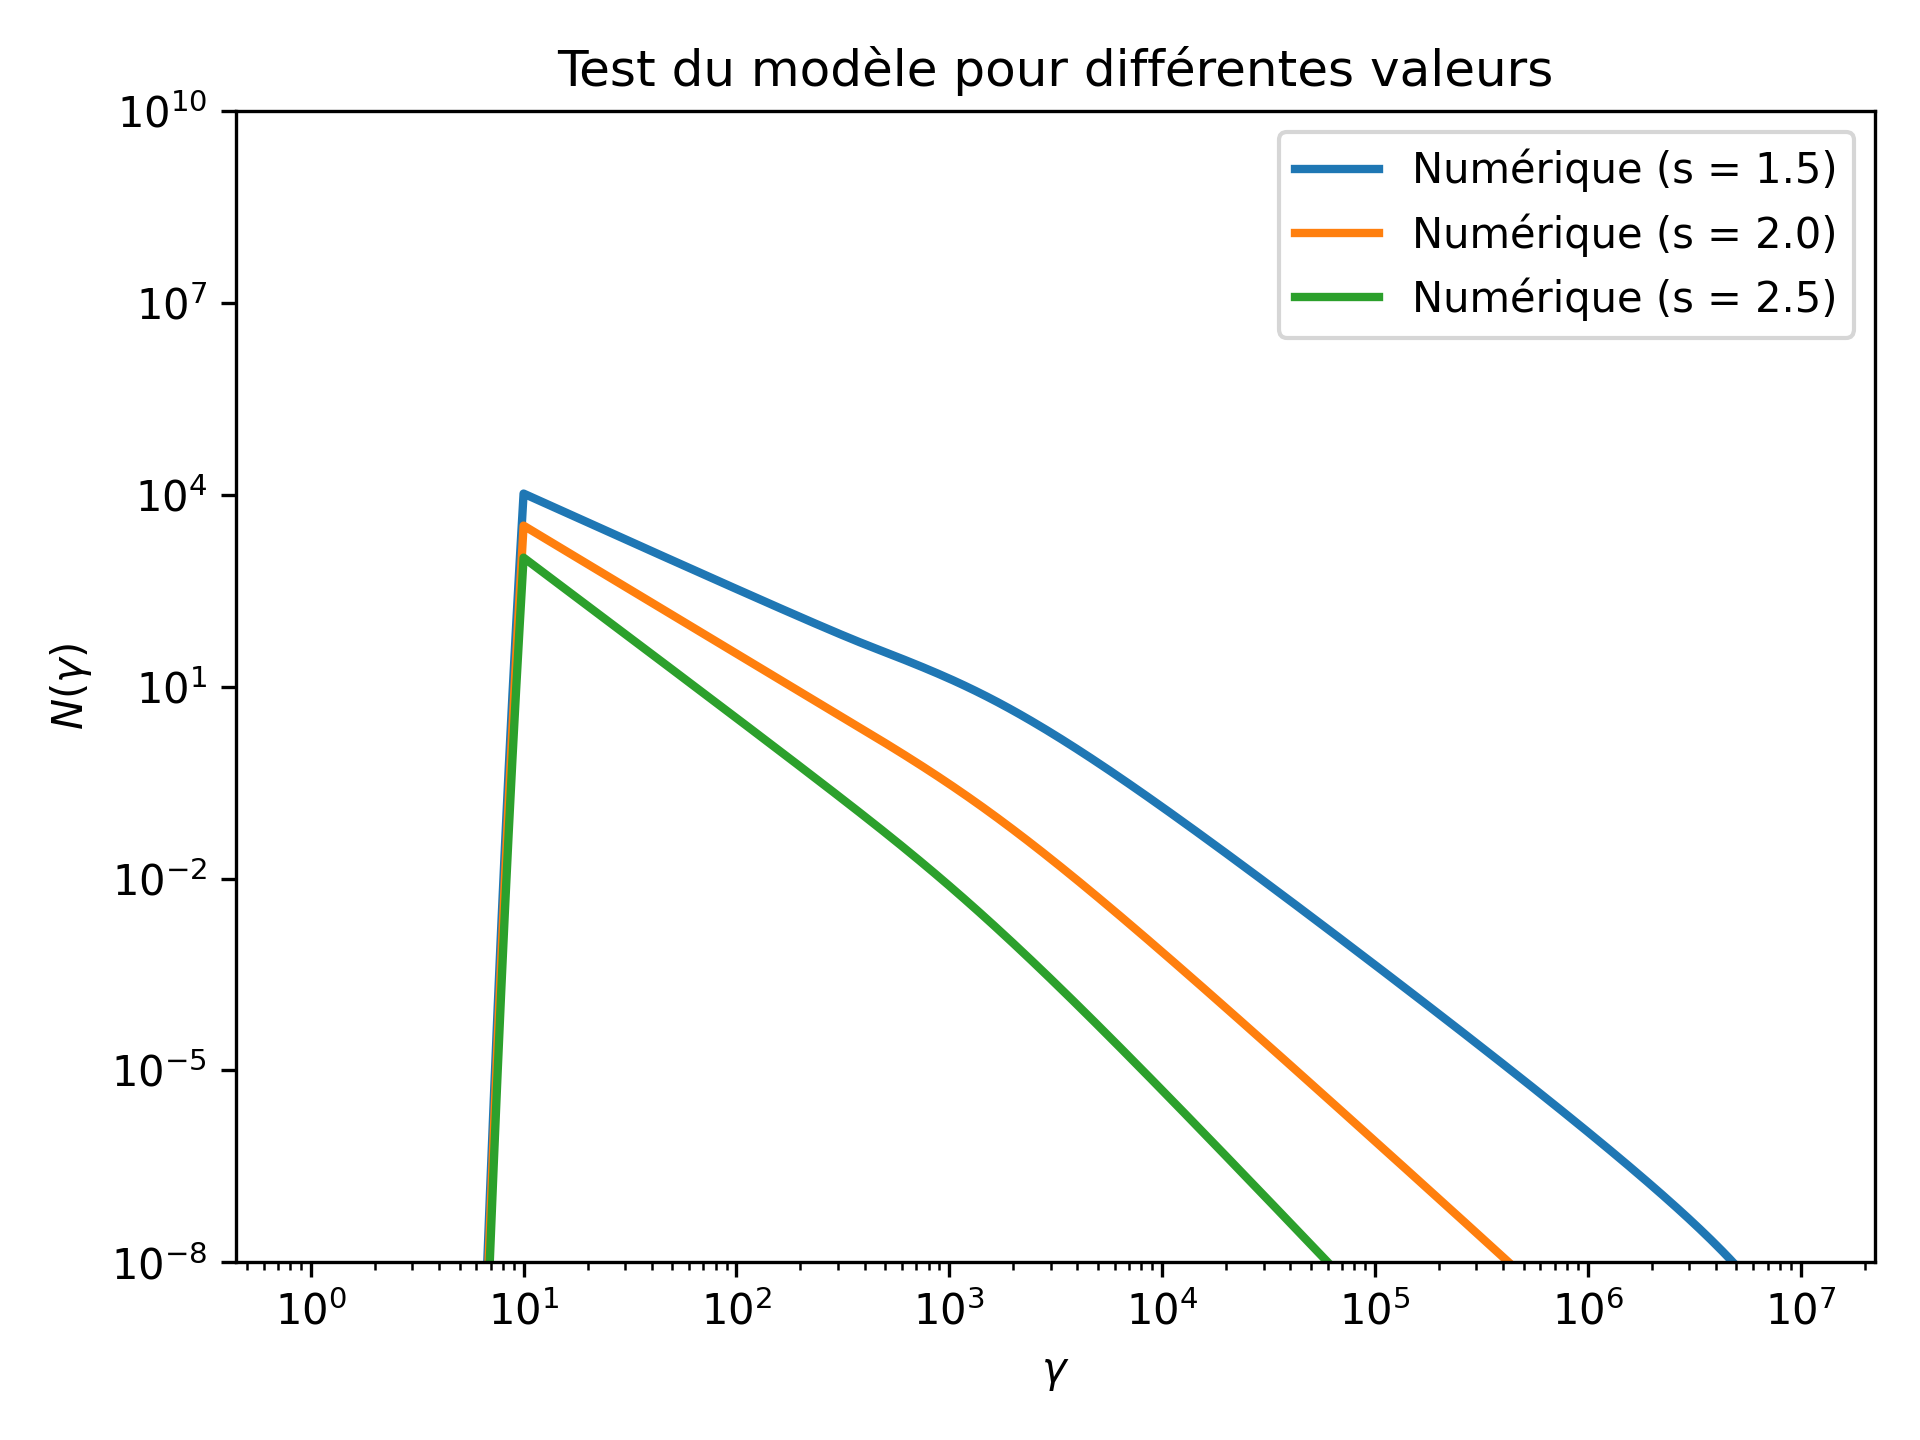
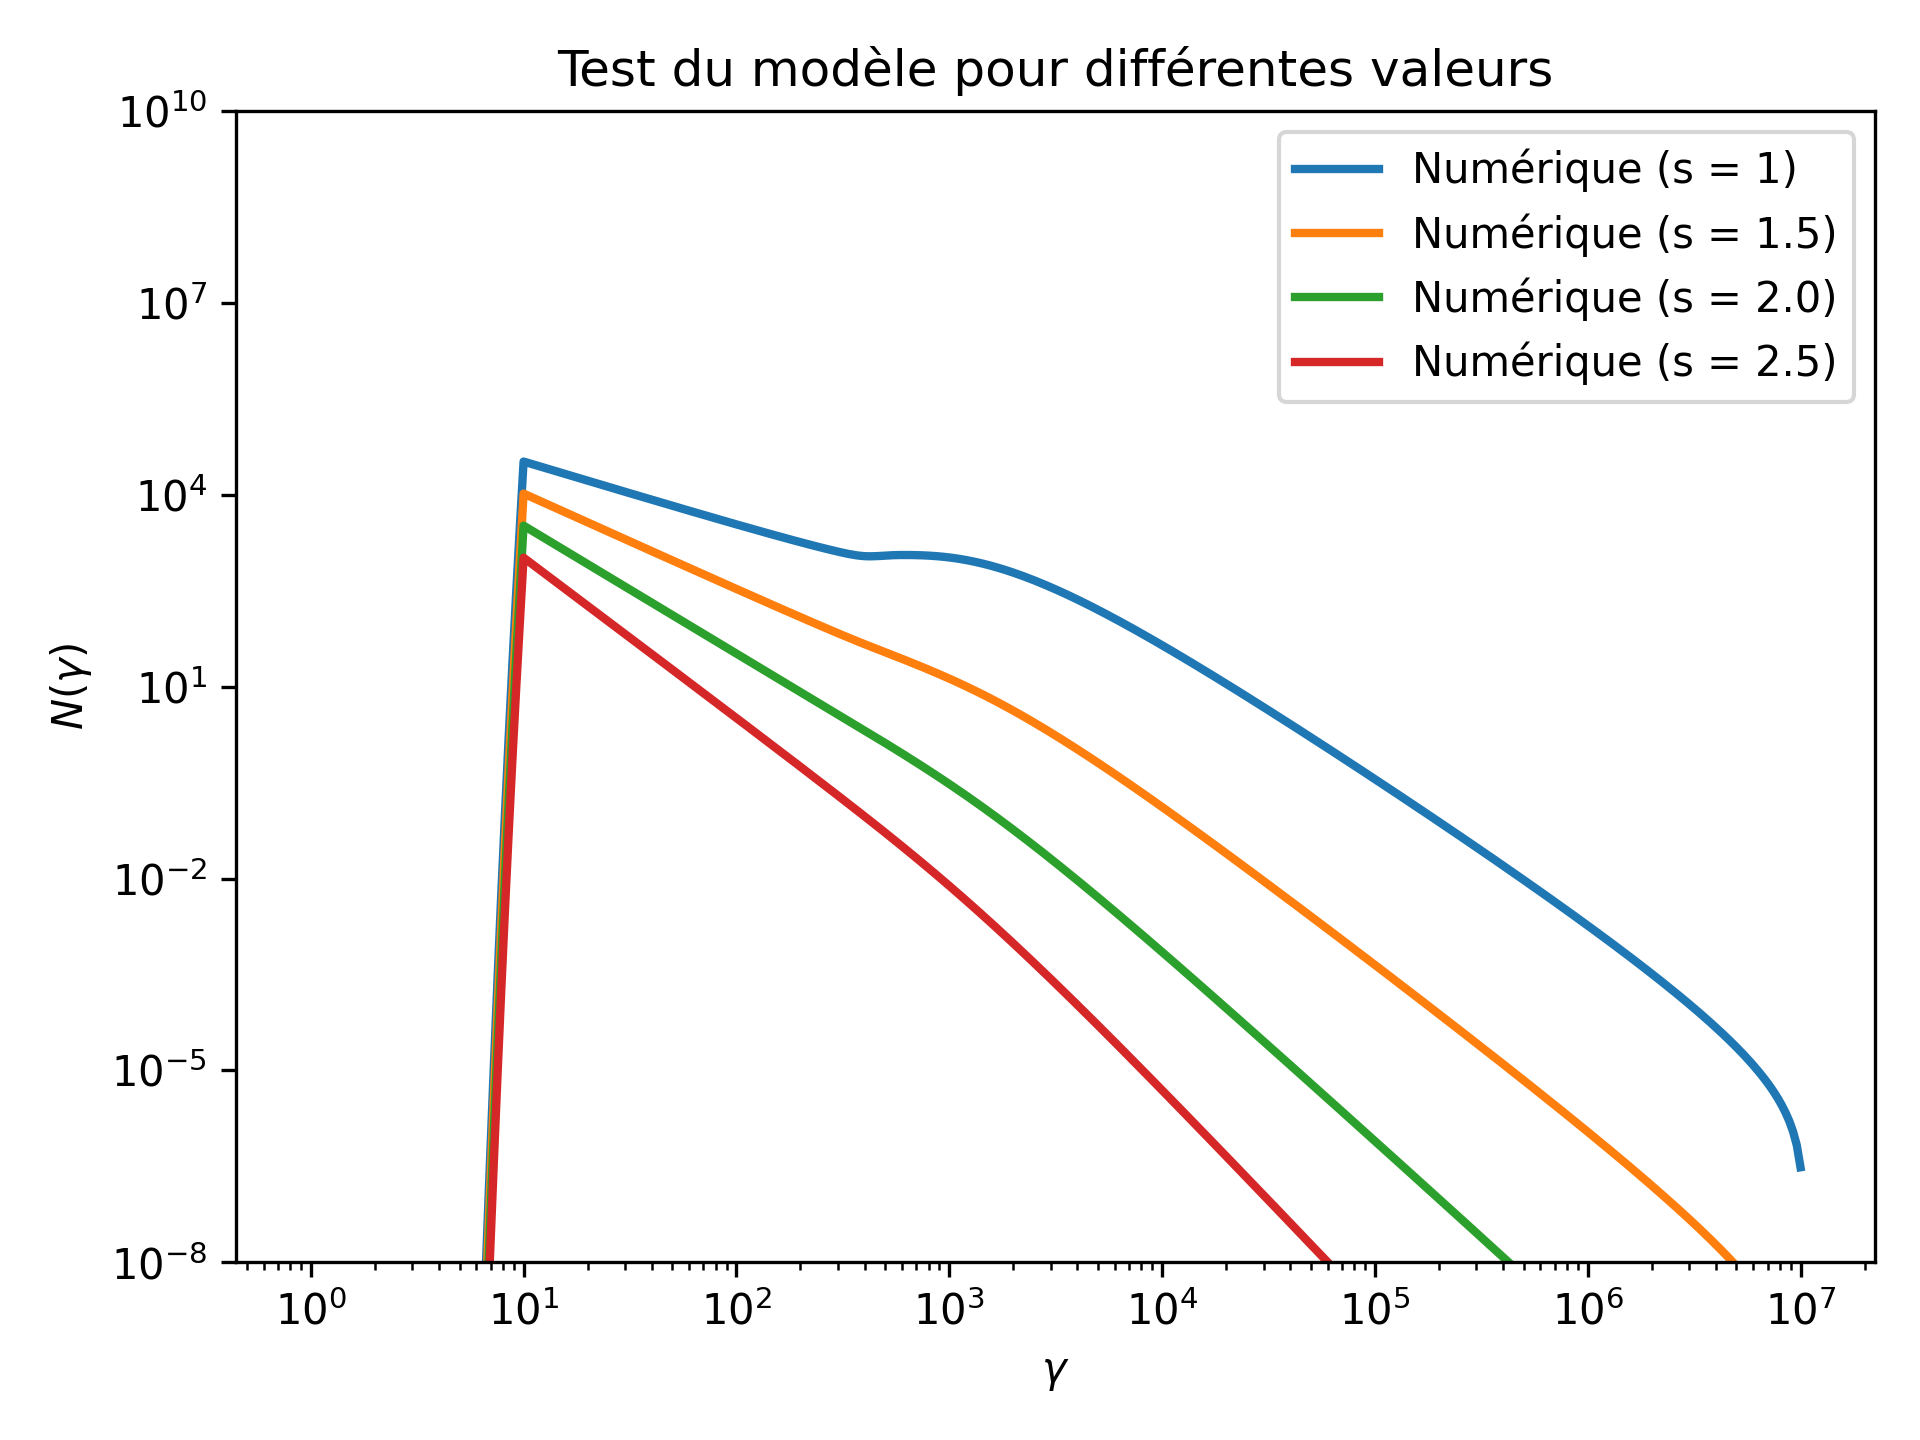
moddification de la résolution des intégrales, ajout de la méthode des trapézes. Observation de s=1 et de l'effet d'accumulation (pile-up).

diff --git a/src/N_analytical_comparaison.py b/src/N_analytical_comparaison.py
@@ -10,27 +10,49 @@ from N_analytical import N_analytical_exp
 K_norm = Q_0 * T_ad
 
 
-def integrer_pure(gamma_p, g, gamma_c, gamma_max, s, Q_0):
-    Q_gp = Q_0 * (gamma_p**(-s))
+def integrer_pure(gamma_p,g, gamma_c,gamma_min, gamma_max, s, Q_0):
+    if gamma_min <= gamma_p <= gamma_max:
+        Q_gp = Q_0 * (gamma_p**(-s))
+    else :
+        Q_gp = 0.0
     exposant = -gamma_c * (1.0 / g - 1.0 / gamma_p)  # Formule stabilisée
     return Q_gp * np.exp(exposant)
 
+'''
 def N_analytical_pure(gamma, gamma_c, gamma_min, gamma_max, s, Q_0, K):
     N = np.zeros_like(gamma)
     for i, g in enumerate(gamma):
-        if gamma_min <= g <= gamma_max:
-            I, _ = quad(integrer_pure, g, gamma_max, args=(g, gamma_c, gamma_max, s, Q_0))
+        if g <= gamma_max:
+            I, _ = quad(integrer_pure, g, gamma_max, args=(g,gamma_c,gamma_min, gamma_max, s, Q_0))
             N[i] = I / (K * g**2)
     return N
 
+'''
+def N_analytical_pure(gamma, gamma_c, gamma_min, gamma_max, s, Q_0, K):
+    N = np.zeros_like(gamma)
+    for i, g in enumerate(gamma):
+        gamma_p_sub = gamma[gamma >= g]
+        
+        if len(gamma_p_sub) > 1:
+            # On évalue la fonction pour chaque point de la sous-grille
+            y_vals = [integrer_pure(gp, g, gamma_c, gamma_min, gamma_max, s, Q_0) for gp in gamma_p_sub]
+            
+            #  méthode des trapèzes
+            I = np.trapezoid(y_vals, gamma_p_sub)
+            N[i] = I / (K * g**2)
+            
+    return N
 
-def integrer_Q_y_exp(gamma_p, g, gamma_c, gamma_max, s, Q_0):
-    Q_gp = Q_0 * (gamma_p**(-s)) * np.exp(-gamma_p / gamma_max)
+def integrer_Q_y_exp(gamma_p, g, gamma_c,gamma_min, gamma_max, s, Q_0):
+    if gamma_min <= gamma_p <= gamma_max:
+        Q_gp = Q_0 * (gamma_p**(-s)) * np.exp(-gamma_p / gamma_max)
+    else :
+        Q_gp = 0.0
     exposant = -gamma_c * (1.0 / g - 1.0 / gamma_p)
     
     return Q_gp * np.exp(exposant)
 
-
+'''
 def N_analytical_exp(gamma, gamma_c, gamma_min, gamma_max, s, Q_0, K):
     N = np.zeros_like(gamma)
 
@@ -41,10 +63,26 @@ def N_analytical_exp(gamma, gamma_c, gamma_min, gamma_max, s, Q_0, K):
             N[i] = I / (K * g**2)
             
     return N
+'''
 
+def N_analytical_exp(gamma, gamma_c, gamma_min, gamma_max, s, Q_0, K):
+    N = np.zeros_like(gamma)
+    for i, g in enumerate(gamma):
+        gamma_p_sub = gamma[gamma >= g]
+        
+        if len(gamma_p_sub) > 1:
+            # On évalue la fonction pour chaque point de la sous-grille
+            y_vals = [integrer_Q_y_exp(gp, g, gamma_c, gamma_min, gamma_max, s, Q_0) for gp in gamma_p_sub]
+            
+            #  méthode des trapèzes
+            I = np.trapezoid(y_vals, gamma_p_sub)
+            N[i] = I / (K * g**2)
+            
+    return N
 
+gamma = np.logspace(0, 7, 400)
 if __name__ == "__main__":
-    gamma = np.logspace(0, 7, 400)
+    
 
     N_pure = N_analytical_pure(gamma, gamma_c, gamma_min, gamma_max, s, Q_0, K)
     N_exp = N_analytical_exp(gamma, gamma_c, gamma_min, gamma_max, s, Q_0, K)

diff --git a/src/res_num_Euler_explicite.py b/src/res_num_Euler_explicite.py
@@ -1,7 +1,7 @@
 import numpy as np
 import matplotlib.pyplot as plt
 from constant import gamma_c, K, gamma_min, gamma_max, s, Q_0, T_ad
-from N_analytical_comparaison import N_analytical_pure
+from N_analytical_comparaison import N_analytical_pure, N_analytical_exp
 
 '''
 Résolution de la ditribution d'électrons avec le terme de cooling 
@@ -39,6 +39,7 @@ def solve_euler_explicit(gamma, s_val, Q_0, gamma_min, gamma_max, K, T_ad, safet
     dt = safety_factor * dt_cfl_max
     print('le pas de temps choisie est :', dt, 's')
     n_steps = int(t_max / dt)
+    print('le nombre de steps est', n_steps)
 
     if dt >= dt_cfl_max:
         print("WARNING : le pas de temps dt dépasse la limite CFL pour la stabilité.")
@@ -65,11 +66,11 @@ def solve_euler_explicit(gamma, s_val, Q_0, gamma_min, gamma_max, K, T_ad, safet
         N += dN_dt * dt        # Mise à jour de N
     return N
 
-#s_val =2
-#gamma = np.logspace(0, 7, 400) #pour le test
-#N = solve_euler_explicit(gamma, s_val, Q_0, gamma_min, gamma_max, K, T_ad, safety_factor=0.5, t_max_factor=5.0)
+s_val =2
+gamma = np.logspace(0, 7, 400) #pour le test
+N = solve_euler_explicit(gamma, s_val, Q_0, gamma_min, gamma_max, K, T_ad, safety_factor=0.5, t_max_factor=5.0)
 
-'''if __name__ == "__main__":
+if __name__ == "__main__":
 
     N_theo = N_analytical_pure(gamma, gamma_c, gamma_min, gamma_max, s, Q_0, K)
 
@@ -86,4 +87,3 @@ def solve_euler_explicit(gamma, s_val, Q_0, gamma_min, gamma_max, K, T_ad, safet
     plt.tight_layout()
     plt.savefig('Résolution avec cooling (Euler explicite).png', dpi=300)
     plt.show()
-'''
